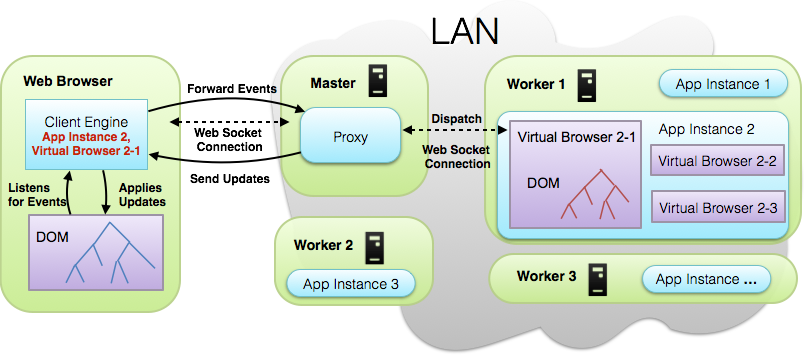
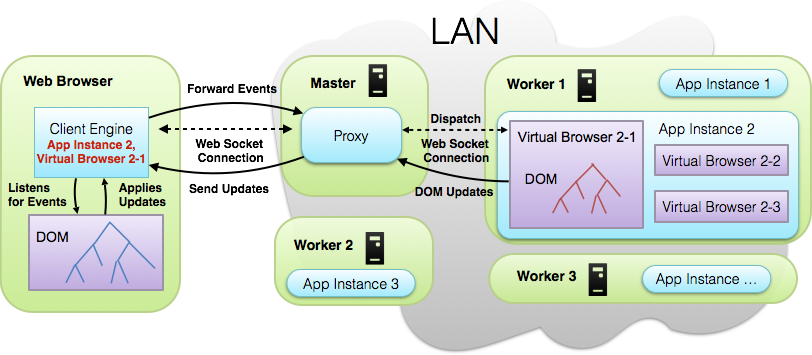
update

diff --git a/implementation.tex b/implementation.tex
@@ -1,31 +1,21 @@
 \section{Design and Implementation}
 \label{sec:implementation}
-As shown in Figure~\ref{fig:cb2arch}, a \cb{} system consists of one master node and multiple worker nodes.
-The worker node hosts virtual browsers which execute application code and create server
-side DOM structures.
-The virtual browsers in a same worker node are grouped into \appins{}s,
-we will explain \appins{} in detail in section~\ref{sec:appins}.
-All the clients' requests go through master node which dispatches the requests to
-worker nodes.
-Master node and worker nodes run on separate processes and communicate with each other
-via TCP messages.
-The new design could be deployed to multiple servers or a single server.
+As shown in Figure~\ref{fig:cb2arch}, 
+a \cb{} system consists of one master node and multiple worker nodes.
+These nodes are separated processes and they communicate with each other
+with HTTP messages.
+So \cb{} could be flexibly deployed  
+to one one machine or multiple machines 
+as long as they can reach each other by network.
 
-Like in any other web framework, the user access the hosted web application by entering
-a URL in his web browser.
-The user could use any of the below URL types to access an application.
-\begin{enumerate}
-\item \label{itm:appurl} http://example.com/[app] : Application URL.
-`app' is application specified mount point. For example, a chat application's mount point URL
-might be http://example.com/chat.
-\item \label{itm:appinsurl} http://example.com/[app]/a/[appInstanceId] : \appins{} URL.
-`appInstanceId' is id of a \appins{}. For example,
-\appins{} 1 in chat application has the URL http://example.com/chat/a/1.
-access \appins{} 1 in chat application.
-\item \label{itm:vburl} http://example.com/[app]/a/[appInstanceId]/b/[browserId] : Browser URL.
-`browserId' is id of a virtual browser. For example, virtual browser 2 is inside \appins{} 1 of
-chat application, so that virtual browser's URL is http://example.com/chat/a/1/b/2.
-\end{enumerate}
+The worker nodes correspond to the web layer in Fig.~\ref{fig:webscaleout},
+they execute actual application code and process user requests.
+The master distributes client requests to workers and relays the 
+response from workers to clients.
+
+
+
+% FIXME merge into the master chapter
 If the user requests an Application URL or an \appins{} URL, 
 \cb{} will try to allocate a virtual browser for the request,
 after that, the system will send a redirect response containing a Browser URL to the user.
@@ -35,7 +25,12 @@ the user will receive a bootstrap HTML document containing links to client engin
 the original design.
 After the client engine is initialized, the client engine will send requests
 to master node to establish web socket connection.
-All the client server communication afterwards are transmitted via web socket.
+All the client server communication afterwards is transmitted via web socket.
+In the bootstrap HTML document, 
+the server will also write the virtual browser's id and the virtual browser's 
+\appins{} id in \js{} code,
+the client engine will embed these ids into the URL when establishing web socket
+connection.
 %The client engine is fully aware of the current \appins{} id and virtual browser id, 
 %all the HTTP requests initiated by the client engine will attach those ids in the URL.
 
@@ -43,37 +38,97 @@ All the client server communication afterwards are transmitted via web socket.
 
 \newarchitectureoverview{}
 
+\subsection{Client Bootstrap}
+Like in any other web framework, 
+the hosted web applications are exposed to the clients via URLs.
+\cb{} hides a distributed system from the user transparently,
+the user only needs to know the master's DNS name or IP address to 
+access a web application.
+In the following of the paper, 
+we assume the master's DNS name is \emph{example.com}.
+A user could use any of the below URL types to access an application in \cb{}.
+\begin{enumerate}
+\item \label{itm:appurl} http://example.com/[app] : Application URL.
+`app' is an application specified mount point. 
+For example, a chat application's mount point URL could be http://example.com/chat.
+\item \label{itm:appinsurl} http://example.com/[app]/a/[appInstanceId] : \appins{} URL.
+`appInstanceId' is id of a \appins{}. For example,
+\appins{} 1 in chat application has the URL http://example.com/chat/a/1.
+access \appins{} 1 in chat application.
+\item \label{itm:vburl} http://example.com/[app]/a/[appInstanceId]/b/[browserId] : Browser URL.
+`browserId' is id of a virtual browser. For example, virtual browser 2 is inside \appins{} 1 of
+chat application, so that virtual browser's URL is http://example.com/chat/a/1/b/2.
+\end{enumerate}
+\appins{} is a container of virtual browsers.
+In our new design,
+a virtual browser must be created inside an \appins{},
+an \appins{} can have multiple virtual browsers.
+We will discuss \appins{} in detail in the remainder of this paper.
+
+When the system receives a new request from client,
+it will allocate a new or existing virtual browser for the request .
+If the request URL is not a \emph{Browser URL}, 
+the system will send back a HTTP 302 redirect response 
+with a \emph{Browser URL} to the client.
+The client will send a new request with the \emph{Browser URL} 
+after receiving the redirect response.
+If the request URL is a \emph{Browser URL},
+the master will forward the request to the worker 
+that contains the corresponding \appins{} and virtual browser.
+Then the worker will send back a initial HTML document.
+The initial HTML document contains in-line \js{} code that 
+encodes the \appins{} id and virtual browser id,
+links to Client Engine code,
+and a few HTML elements like head and body.
+After loading the initial HTML document, 
+the user's browser will load and execute the Client Engine code.
+The Client Engine will establish a web socket connection with the master,
+the master will tunnel this connection to the corresponding worker node
+because the Client Engine will embed the \appins{} id in the request URL.
+After that, the master node will just copy messages running in the 
+connection back and forth.
+Like in previous design, 
+the Client Engine receives DOM updates and forwards client events via
+web socket connection.
+For clarity, 
+we omit the cases that the system rejects client requests
+due to various possible exceptions like  illegal URL,
+authorization exception, etc.
+
 \subsection{Master}
 Figure~\ref{fig:dispatch} presents the dispatch logic of the master node.
-When the master receives a request from client,
+When the master receives a new request from client,
 it first tries to extract \appins{} id from the request URL.
-If the request is associated with an \appins{},
-the master will look up a in memory mapping table to find the worker
-who hosts the \appins{} and forward the request to it.
-If this request is not associated with an \appins{},
-the master would pick a worker node to forward this request.
-In this case, the worker node would use application specific logic to handle this request.
-For example, if the application is configured as create only one virtual browser per user,
-the worker node will find a existing virtual browser of that user or create a new one
-and send a redirect response to make the client's web browser request that virtual browser's URL.
-A virtual browser's URL always contains an \appins{} id.
-After dispatching the request,
-the master will relay response message from worker node to client.
+If the request URL contains an \appins{},
+the master will look up a in-memory mapping table to find the worker
+that hosts the \appins{} and forward the request to it.
+If this request URL does not contain an \appins{},
+the master would pick a worker node using load balancing mechanism in section~\ref{sec:lb}.
+% In this case, the worker node would use application specific logic to handle this request.
+% For example, 
+% a single page application could be configured allocate only one virtual browser for 
+% a user.
+% In this case, 
+% the worker node will try to find an existing virtual browser for that user or 
+% create a new one if it cannot find an existing one.
+% Then the worker sends a redirect response with the virtual browser's URL
+% to the client.
 
 It is noticeable that the majority of the client server traffic are web socket messages,
-those messages are transmitted via an established web socket that is already connected to the 
-correct worker node.
-So the master only execute this dispatch logic before the client engine bootstrapped.
+those messages are transmitted via an established web socket that is already tunneled to 
+a worker node.
+So the master only execute this dispatch logic in the client bootstrap process.
 
+% one way, two way forwarding
 For simplicity, all the client traffic and the workers' responses goes through master node.
 We use an open source \nodejs{} module node HTTP proxy~\cite{nodeproxy} to implement
 an embedded HTTP proxy inside master node.
-The embedded HTTP proxy listens on the ports that clients connect to,
+The embedded HTTP proxy listens on the port that clients connect to,
 when the proxy receives a HTTP request,
-it will call a method to get the target worker node and then relay the message
+it will call the dispatch method to get a worker node and then relay the message
 to the worker node.
 We also considered to use high performance HTTP reverse proxy nginx~\cite{nginx}
-to relaying requests,
+to relay requests,
 but to do so we need to modify the code of nginx to 
 make it talks to master node before relaying requests,
 also it would make the deployment of \cb{} more complex.
@@ -86,6 +141,7 @@ proxy to run on multiple processes.
 \requestdispatchdiagram{}
 
 \subsubsection{Load Balancing}
+\label{sec:lb}
 To make the work load as evenly distributed to the worker nodes as possible,
 the master node assign a integer weight value to each worker
 and the worker with the smallest weight will be picked to handle new requests
@@ -102,13 +158,13 @@ To avoid a burst of workload all being directed to a fixed worker.
 Every time the master node forward requests or send create \appins{} command to a worker,
 the weight value of that node will be incremented by an empirical amount.
 For example, if there are two workers w1 and w2 in the system with weight
-100 and 101 respectively,
-before the next heartbeat message the master received ten requests to 
-create \appins{},
-if we do not increase the worker's weight after forwarding a request,
-we end up let w1 handles all the work,
-if we increase the worker's weight by 10 for each \appins{} created,
-we distribute these ten requests evenly.
+100 and 101 respectively.
+Before the next heartbeat message from w1 arrives the master received ten requests to 
+create \appins{}.
+If we do not increase the worker's weight after forwarding a request,
+we end up let w1 handles all the work.
+If we increase the worker's weight by 10 for each \appins{} created,
+we will distribute these ten requests evenly between these 2 workers.
 Even if the number we add to the weight does not accurately amount to the actual 
 heapUsed of the worker, it will be fixed after receiving the next heart beat message.
 
@@ -144,7 +200,7 @@ one of the following could happen:
 \end{enumerate}
 
 \subsection{\appins{}}
-
+\label{sec:appins}
 %FIXME
 On top of virtual browser, 
 \cb{} has a level of abstraction called \appins{} that is helpful

diff --git a/motivation.tex b/motivation.tex
@@ -13,13 +13,13 @@ development.
 
 Fig.~\ref{fig:webscaleout} shows the architecture of a scalable web system.
 The web layer are servers that generate dynamic web content for clients.
-We refer these servers as application servers because they host web application
+We refer these servers as web servers because they host web application
 logic.
 The servers in the service layer provide services for the web layer
 like data persistence, data query, message queue, cache, etc. 
 The clients cannot directly access the service layer.
 The load balancer is a logical component that 
-distributes requests from clients to application servers.
+distributes requests from clients to web servers.
 It could be implemented by one or more special purpose hardware like F5's BIG-IP,
 or by reverse proxy software (like nginx, apache HTTP server) deployed on general
 purpose servers.
@@ -27,11 +27,11 @@ The load balancer could also be a conceptual component that does not map to
 any physical machine in the web system.
 For example, 
 the load balancer could be implemented by Round Robin DNS,
-the web system's owner registers public IP addresses of the application servers
+the web system's owner registers public IP addresses of the web servers
 to DNS server under the same name,
 when clients send name resolution requests for the name,
 the DNS server responses those IP addresses to clients in a round robin fashion,
-so clients' actual requests will be distributed to multiple application servers.
+so clients' actual requests will be distributed to multiple web servers.
 We will only focus on the dispatch logic of the load balancer without meddling with
 implementation details.
 The client layer is the UI representation and application code running on the
@@ -42,10 +42,10 @@ there could be web servers that are dedicated to serve static resources.
 We omit these details because they are not relevant to our discussion.
 
 A common strategy for load balancer is to distribute requests in a client-blind manner,
-for example, it pick an application server randomly or in a round robin fashion.
-In this case, the requests from a client could be distributed to any application server.
-The application server needs to reinitialize the client's application state for every request.
-The application server cannot naively cache the application sate in hopes of reducing the
+for example, it pick an web server randomly or in a round robin fashion.
+In this case, the requests from a client could be distributed to any web server.
+The web server needs to reinitialize the client's application state for every request.
+The web server cannot naively cache the application sate in hopes of reducing the
 cost of construct application state, 
 because the user's requests might not be routed to the server again, 
 in this case, caching the user's application state would be a waste of space,
@@ -63,12 +63,12 @@ In this case, the cost of reinitializing application state cannot be avoid.
 To overcome the shortcomings of client-blind load distribution,
 some systems adopt client-aware load balancers.
 These load balancers would dispatch the request from the same
-client to the same application server.
-Thus, the application server could cache application state.
+client to the same web server.
+Thus, the web server could cache application state.
 The load balancers would need to parse HTTP header to get
 a session identifier to discriminate each client.
 The dispatch logic could be achieved by applying a hash function
-on the session identifier and map the hash value to an application server.
+on the session identifier and map the hash value to an web server.
 However, 
 this simple method does not work well with collaborative applications
 which require application state being shared with multiple users.
@@ -120,7 +120,7 @@ The requests for the same \appins{} are forwarded to the same \cb{} process.
 One \appins{} corresponds to one application level entity, 
 the developers could attach multiple virtual browsers to it.
 Thus, the requests are distributed according to application level entities.
-The system will also make the load as evenly distributed to application servers as possible.
+The system will also make the load as evenly distributed to web servers as possible.
 
 % That means the applications will not scale if not configured properly.
 % Second, the load distribution scheme and 
